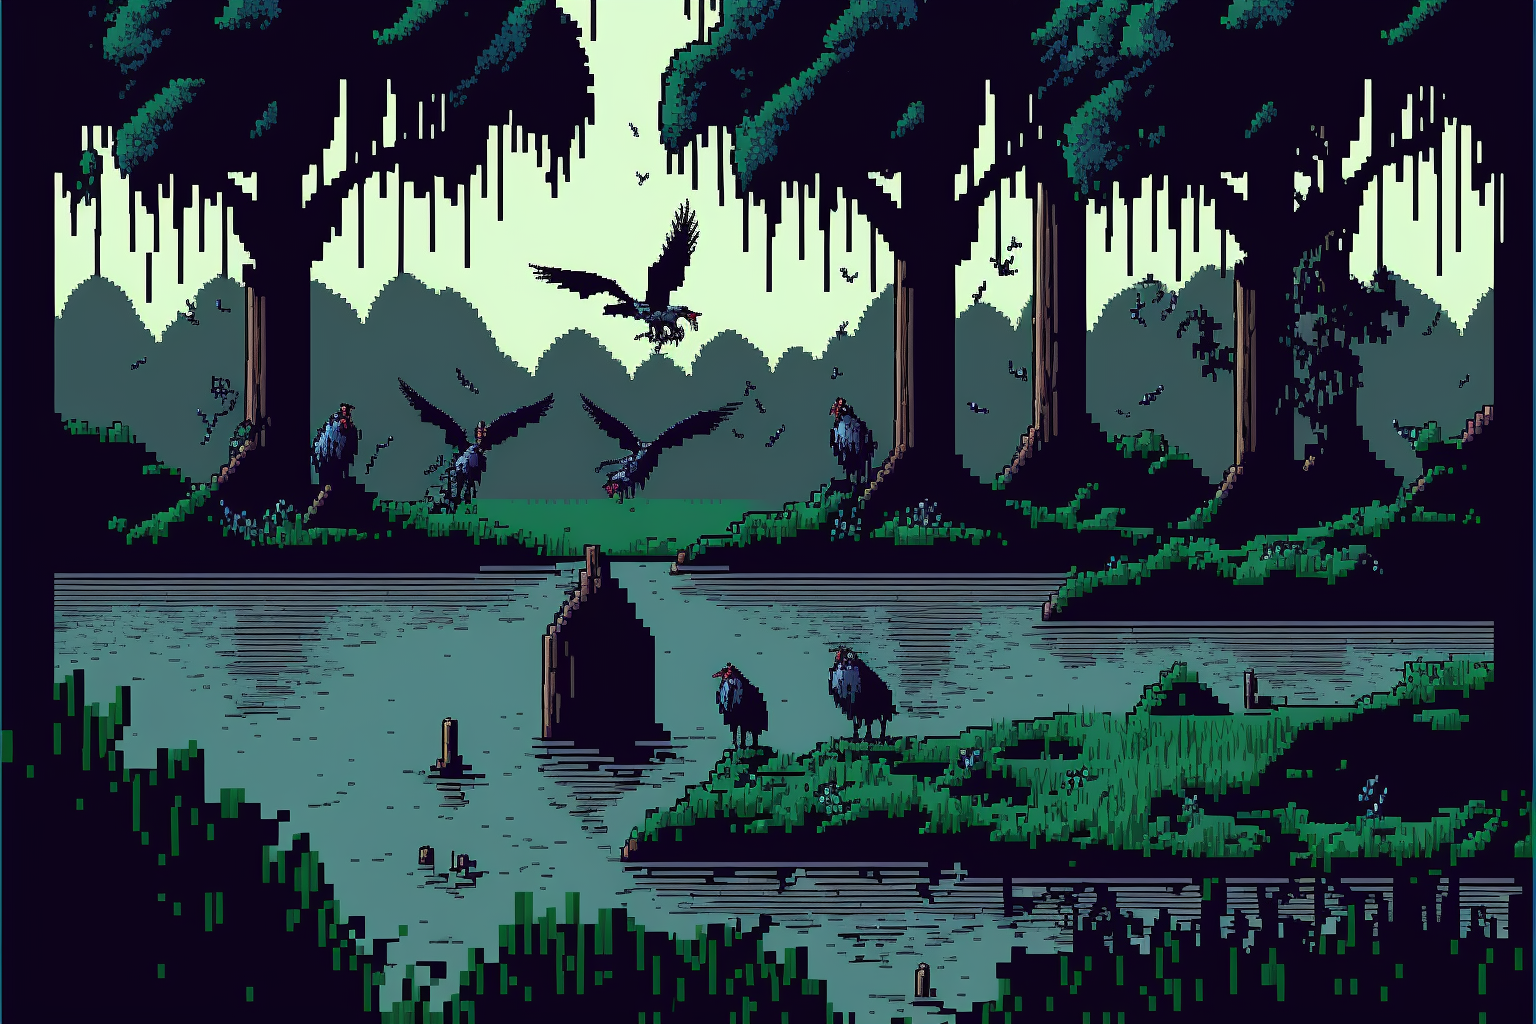
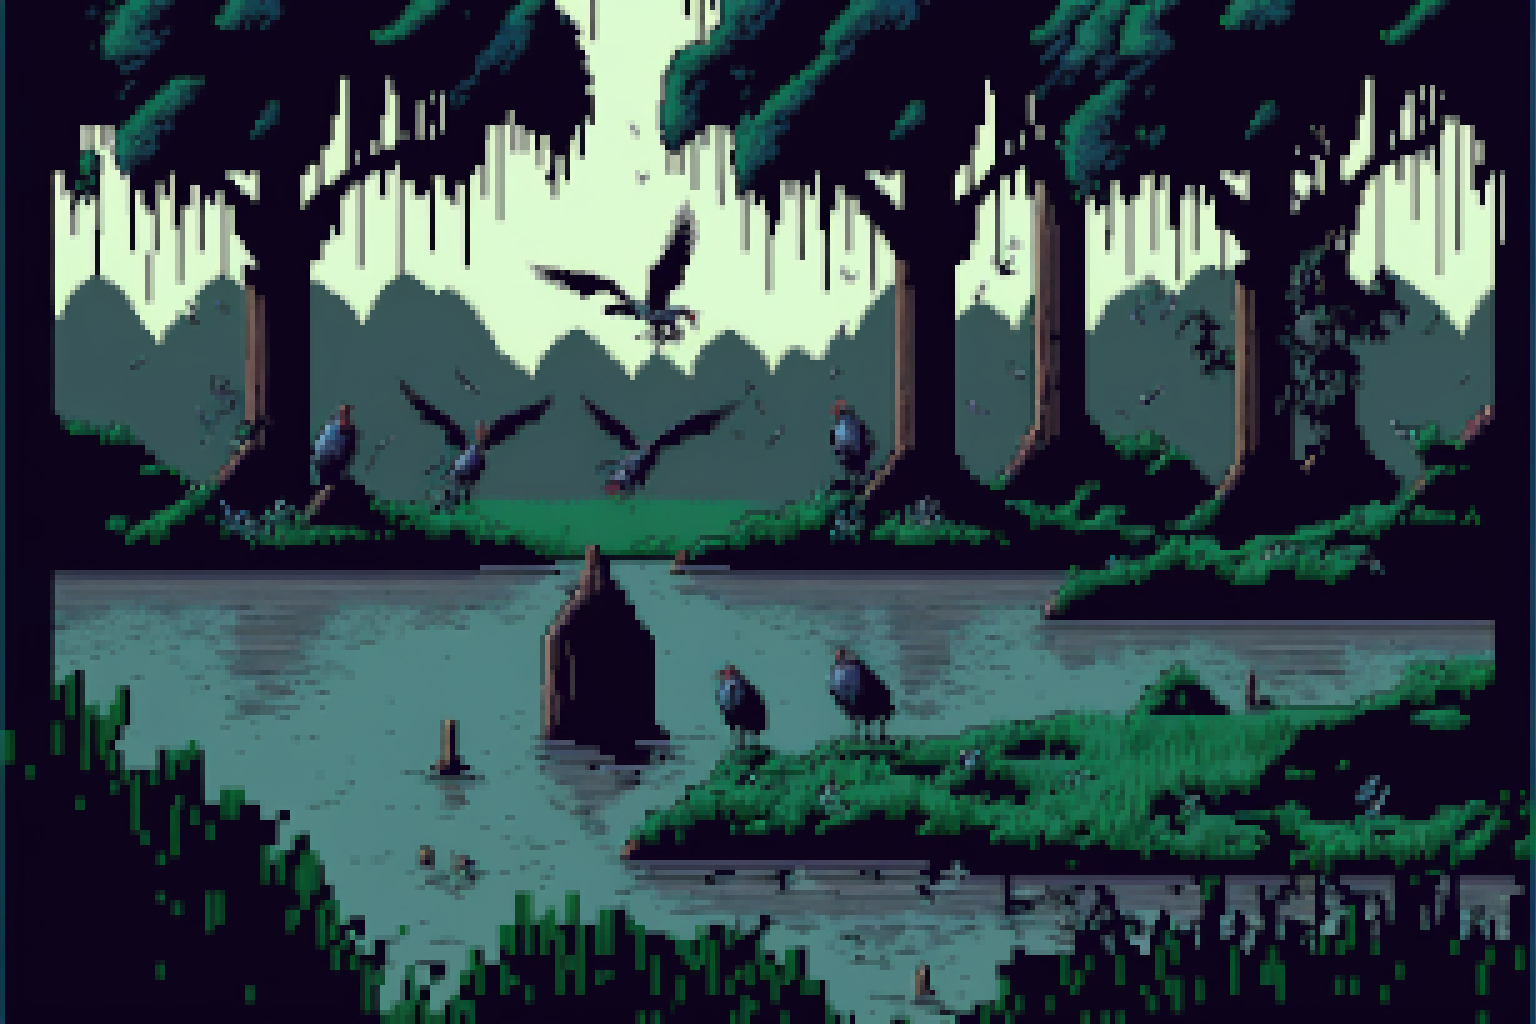
added backgrounds up to butcher

diff --git a/assets/css/style.css b/assets/css/style.css
@@ -285,7 +285,8 @@ hr {
 }
 /* game grid layout */
 #gameScreenGrid {
-    background-image: url(../images/village.png);
+    background-image: url(../images/backgrounds/sun-shinning-through.png);
+    border: #000 solid 5px;
     background-size: contain;
     margin: auto;
     display: grid;

diff --git a/assets/js/script.js b/assets/js/script.js
@@ -959,5 +959,5 @@ fetch("./assets/JSON/story.json")
 	.then((res) => res.json())
 	.then((data) => {
 		tale = data;
-		// initGame();
+		initGame();
 	});
